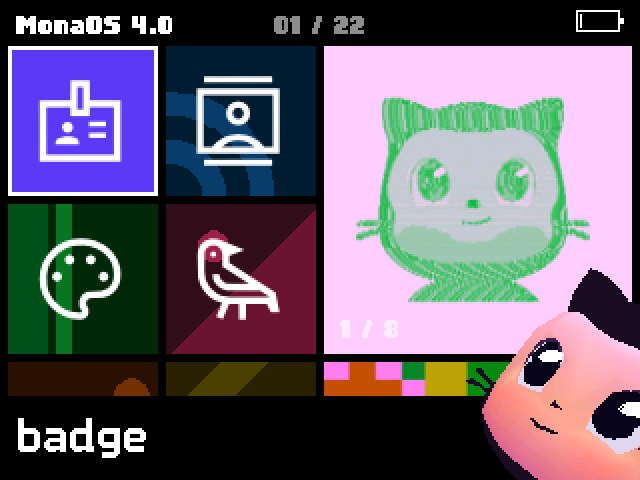
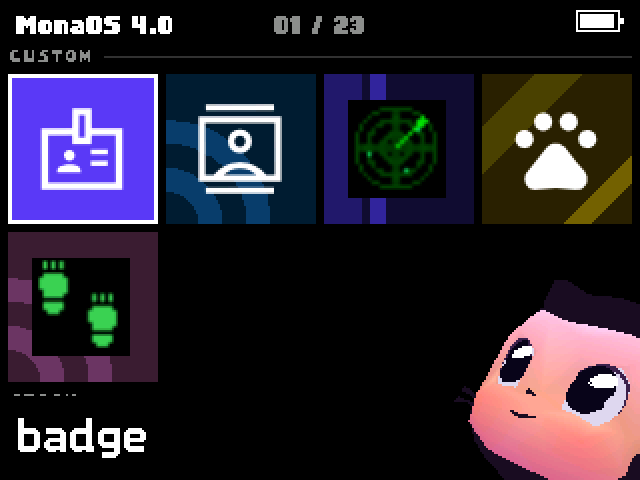
Menu: changed apps first under CUSTOM, stock ones under STOCK
- menu/app.py: CUSTOM_APPS (Badge, Contacts, Radar, Mona Pet, Pedometer)
  packed first under a CUSTOM band; the stock apps, achievements and photos
  follow under STOCK. Scrolling keeps a section's band in view.
- README: Mona Pet and the Menu in the changed apps gallery, new menu
  screenshot.

diff --git a/system/apps/menu/app.py b/system/apps/menu/app.py
@@ -27,6 +27,19 @@ APP_ORDER = (
     "show",
 )
 
+# The apps this repo changed or added come first, under a CUSTOM band; the
+# stock ones follow under STOCK
+CUSTOM_APPS = (
+    "badge",
+    "contacts",
+    "radar",
+    "mona_pet",
+    "pedometer",
+)
+BAND = 14
+BAND_FONT = font.ark
+BAND_LINE = color.rgb(255, 255, 255, 50)
+
 GAP = 4
 GRID_WIDTH = 312
 TILE = (GRID_WIDTH - (TILES_PER_ROW - 1) * GAP) // TILES_PER_ROW
@@ -163,12 +176,14 @@ class Tile:
     column = 0
     row = 0
     drop = 0
+    # room taken above it by the section bands
+    band = 0
 
     def place(self):
         self.width = self.columns * TILE + (self.columns - 1) * GAP
         self.height = self.rows * TILE + (self.rows - 1) * GAP
         self.left = GRID_LEFT + self.column * (TILE + GAP)
-        self.top = GRID_TOP + self.row * ROW_PITCH
+        self.top = GRID_TOP + self.row * ROW_PITCH + self.band
 
     def bounds(self, scroll):
         # whole pixels, so the gaps between tiles hold while the scroll eases
@@ -332,6 +347,7 @@ class Apps:
         animated = animated_slugs()
         folders = [entry[0] for entry in os.ilistdir(root) if entry[1] == 0x4000]
         tiles = []
+        custom = []
         for slug in sorted(folders, key=order):
             path = f"{root}/{slug}"
             if slug == "menu":
@@ -340,7 +356,9 @@ class Apps:
                 continue
             name = " ".join([capitalize(word) for word in slug.split("_")])
             icon_key = slug if slug in ICONS else "default"
-            tiles.append(App(len(tiles), name, slug, path, icon_key in animated))
+            app = App(len(tiles) + len(custom), name, slug, path, icon_key in animated)
+            (custom if slug in CUSTOM_APPS else tiles).append(app)
+        custom.sort(key=lambda app: CUSTOM_APPS.index(app.slug))
 
         from achievements import POSITION, Achievements, AchievementsTile
         self.achievements = Achievements()
@@ -352,7 +370,14 @@ class Apps:
             if file_exists(tile_path(name)):
                 tiles.insert(min(position, len(tiles)), Photo(name, columns, rows, frame))
 
-        self.apps = self.pack(tiles)
+        # the achievements and the photos keep their places among the stock apps
+        self.sections = []
+        stock_row = 0
+        if custom:
+            stock_row = self.pack(custom, 0, BAND)
+            self.sections = [("CUSTOM", 0, BAND), ("STOCK", stock_row, BAND * 2)]
+        self.pack(tiles, stock_row, BAND * 2 if custom else 0)
+        self.apps = self.number(custom + tiles)
         boundary = self.achievements_tile.row + self.achievements_tile.rows
         # (tile, first row, row after its last, below the picker) for the draw loop
         self.layout = [(tile, tile.row, tile.row + tile.rows, tile.row >= boundary) for tile in self.apps]
@@ -378,10 +403,12 @@ class Apps:
                 return
 
     @staticmethod
-    def pack(tiles):
+    def pack(tiles, first_row, band):
+        """Places one section's tiles from first_row down; returns the row after it."""
         taken = set()
+        end = first_row
         for tile in tiles:
-            row = 0
+            row = first_row
             placed = False
             while not placed:
                 for column in range(TILES_PER_ROW - tile.columns + 1):
@@ -389,15 +416,28 @@ class Apps:
                     if not any(cell in taken for cell in cells):
                         tile.column = column
                         tile.row = row
+                        tile.band = band
                         taken.update(cells)
+                        end = max(end, row + tile.rows)
                         placed = True
                         break
                 row += 1
+        return end
+
+    @staticmethod
+    def number(tiles):
         tiles.sort(key=lambda tile: (tile.row, tile.column))
         for index, tile in enumerate(tiles):
             tile.index = index
             tile.place()
         return tiles
+
+    def section_start(self, tile):
+        """The band above the tile's row, if its row starts a section."""
+        for _label, row, _band in self.sections:
+            if tile.row == row:
+                return BAND
+        return 0
 
     @property
     def active(self):
@@ -463,9 +503,11 @@ class Apps:
         return left + width / 2, top + height / 2
 
     def update_scroll(self):
-        row = self.active.row
-        lowest = (row + self.active.rows - VISIBLE_ROWS) * ROW_PITCH
-        highest = row * ROW_PITCH
+        active = self.active
+        top = active.top - GRID_TOP
+        lowest = top + (active.rows - VISIBLE_ROWS) * ROW_PITCH
+        # the first row of a section brings its band into view with it
+        highest = top - self.section_start(active)
         if self.picker is not None and self.picker.is_open:
             self.target = max(0, self.picker.focus_scroll())
         else:
@@ -488,9 +530,11 @@ class Apps:
         drop = picker.height() if picker is not None else 0
         selected = self.active_index if picker is None or not picker.is_open else None
         scroll = self.scroll
-        # rows in view, with a GAP of slack for the opening's overshoot
-        first_row = (scroll - GAP) / ROW_PITCH
-        last_row = (scroll + GRID_BOTTOM - GRID_TOP + GAP) / ROW_PITCH
+        # rows in view, with a GAP of slack for the opening's overshoot and
+        # room for the bands, which push the rows down
+        slack = GAP + BAND * len(self.sections)
+        first_row = (scroll - slack) / ROW_PITCH
+        last_row = (scroll + GRID_BOTTOM - GRID_TOP + slack) / ROW_PITCH
         dropped_first = first_row - drop / ROW_PITCH
         dropped_last = last_row - drop / ROW_PITCH
         for app, row, end, dropped in self.layout:
@@ -508,9 +552,24 @@ class Apps:
                     continue
             scale = opening.tile_scale(app) if opening else 1.0
             app.draw(self.scroll, tilt, app.index == selected, scale)
+        self.draw_bands(scroll)
         if picker is not None:
             picker.draw(self.scroll, tilt)
         screen.clip = rect(0, 0, screen.width, screen.height)
+
+    def draw_bands(self, scroll):
+        screen.font = BAND_FONT
+        for label, row, band in self.sections:
+            top = GRID_TOP + row * ROW_PITCH + band - BAND - round(scroll)
+            if top + BAND < GRID_TOP or top > GRID_BOTTOM:
+                continue
+            screen.clip = rect(0, GRID_TOP, screen.width, GRID_BOTTOM - GRID_TOP)
+            width, height = screen.measure_text(label)
+            text_top = top + (BAND - GAP - height) / 2
+            screen.pen = ui.dim_white
+            screen.text(label, GRID_LEFT, text_top)
+            screen.pen = BAND_LINE
+            screen.rectangle(GRID_LEFT + width + 6, text_top + height / 2, GRID_WIDTH - width - 6, 1)
 
     def __len__(self):
         return len(self.apps)

diff --git a/system/apps/menu/achievements.py b/system/apps/menu/achievements.py
@@ -2,7 +2,7 @@ import math
 from array import array
 
 import ui
-from app import BORDER, GAP, GRID_BOTTOM, GRID_LEFT, GRID_TOP, GRID_WIDTH, ICON_SHIFT, ROW_PITCH, TILE, TILE_FILTER, Tile, build_icon, polygon
+from app import BORDER, GAP, GRID_BOTTOM, GRID_LEFT, GRID_TOP, GRID_WIDTH, ICON_SHIFT, TILE, TILE_FILTER, Tile, build_icon, polygon
 from icons import ICONS
 from silhouettes import SILHOUETTES
 from badgeware import State
@@ -576,7 +576,8 @@ class Picker:
 
     def focus_scroll(self):
         tile = self.tile
-        return GRID_TOP + (tile.row + tile.rows) * ROW_PITCH + TILE / 2 - STRIP_CENTRE_Y
+        # tile.top already counts the section bands above it
+        return tile.top + tile.height + GAP + TILE / 2 - STRIP_CENTRE_Y
 
     def item_centre(self, scroll):
         x = GRID_LEFT + self.slot * STRIP - self.target_offset() + TILE / 2

diff --git a/README.md b/README.md
@@ -22,20 +22,20 @@ Screenshots taken straight from the badge with `tools/screenshot.ps1`.
 | Radar: Hot / Cold game | Radar: encounter history | Pedometer |
 |---|---|---|
 | ![Hot / Cold](docs/screenshots/radar-game.png) | ![Encounters](docs/screenshots/radar-history.png) | ![Pedometer](docs/screenshots/pedometer.png) |
+| **Mona Pet** | **Menu: CUSTOM first** | |
+| ![Mona Pet](docs/screenshots/mona_pet.png) | ![Menu](docs/screenshots/menu.png) | |
 
 The badges on the Radar screenshots are simulated (I only have one badge), and so are the steps on the Pedometer one.
 
 ### Stock apps
 
-| Menu | Snake | Pong |
+| Snake | Pong | Merge Conflict |
 |---|---|---|
-| ![Menu](docs/screenshots/menu.png) | ![Snake](docs/screenshots/snake.png) | ![Pong](docs/screenshots/pong.png) |
-| **Merge Conflict** | **Flappy Mona** | **Mona Pet** |
-| ![Merge Conflict](docs/screenshots/merge_conflict.png) | ![Flappy Mona](docs/screenshots/flappy_mona.png) | ![Mona Pet](docs/screenshots/mona_pet.png) |
-| **Mona Paint** | **Rogue** | **Brattal** |
-| ![Mona Paint](docs/screenshots/mona_paint.png) | ![Rogue](docs/screenshots/rogue.png) | ![Brattal](docs/screenshots/brattal.png) |
-| **Life** | **ISS** | |
-| ![Life](docs/screenshots/life.png) | ![ISS](docs/screenshots/iss.png) | |
+| ![Snake](docs/screenshots/snake.png) | ![Pong](docs/screenshots/pong.png) | ![Merge Conflict](docs/screenshots/merge_conflict.png) |
+| **Flappy Mona** | **Mona Paint** | **Rogue** |
+| ![Flappy Mona](docs/screenshots/flappy_mona.png) | ![Mona Paint](docs/screenshots/mona_paint.png) | ![Rogue](docs/screenshots/rogue.png) |
+| **Brattal** | **Life** | **ISS** |
+| ![Brattal](docs/screenshots/brattal.png) | ![Life](docs/screenshots/life.png) | ![ISS](docs/screenshots/iss.png) |
 
 ## What's inside
 
@@ -89,7 +89,7 @@ To try a pull request: `git checkout <branch>` then `./tools/deploy.ps1`.
 | **Radar** (new) | Nearby badges with signal-based proximity, fading, encounter history and an opt-in Hot / Cold game; optional matrix and haptic feedback |
 | **Pedometer** (new) | The day's steps from the watch, hour by hour, distance and a 6,000-step goal |
 | **Mona Pet** | Steps from the watch feed Mona (500 steps = 1 meal) and lift her mood; Down shows her walk |
-| **Menu** | Shows an app's `icon.png` when it has no built-in icon (Radar ships one; Badge keeps its built-in icon) |
+| **Menu** | Shows an app's `icon.png` when it has no built-in icon (Radar ships one; Badge keeps its built-in icon); the apps this repo changed come first, under a **CUSTOM** band, then the stock ones under **STOCK** |
 
 ### Radar
 

diff --git a/CHANGELOG.md b/CHANGELOG.md
@@ -5,6 +5,7 @@ Notable changes to this repo. Format based on [Keep a Changelog](https://keepach
 ## Unreleased
 
 ### Added
+- Menu: the apps this repo changed or added (Badge, Contacts, Radar, Mona Pet, Pedometer) come first under a **CUSTOM** band, the stock ones follow under **STOCK** (`CUSTOM_APPS` in `menu/app.py`).
 - **Steps from the watch**: Badger Remote reads the day's steps from Health Services (total and per hour, recorded in the background) and sends them to the badge on a second characteristic; `remote.py` keeps the last ones in `/state/watch_steps`. The badge can count steps with its own LSM6DS3 too, but it is not used: worn around the neck, it does not count reliably.
 - **Pedometer** app: the day's steps from the watch, GitHub Universe day, hourly squares, distance, goal (`STEPS_GOAL`) and sync time.
 - Mona Pet: steps from the watch feed Mona (500 steps = 1 meal) and lift her mood; Down now shows her walk instead of the stats.
@@ -31,6 +32,7 @@ Notable changes to this repo. Format based on [Keep a Changelog](https://keepach
 - `CHANGELOG.md`.
 
 ### Changed
+- README: Mona Pet and the Menu move to the "Apps changed in this repo" gallery; new menu screenshot.
 - README: new "Built-in sensors" section (motion sensor and its events, orientation, light, buttons, battery), with values measured on the badge.
 - README: `tests/` listed in the repo contents; hardware table updated for the Radar changes (fading and Hot / Cold on the matrix, merged arrival vibrations and Hot / Cold pulses); Radar README mentions the DRV2605L.
 - Radar: **Very near / Near / Far** replace metre estimates; labelled rings explicitly represent signal strength, not direction. Badges fade from 4 to 12 seconds without a signal, including matrix and case-light feedback.
